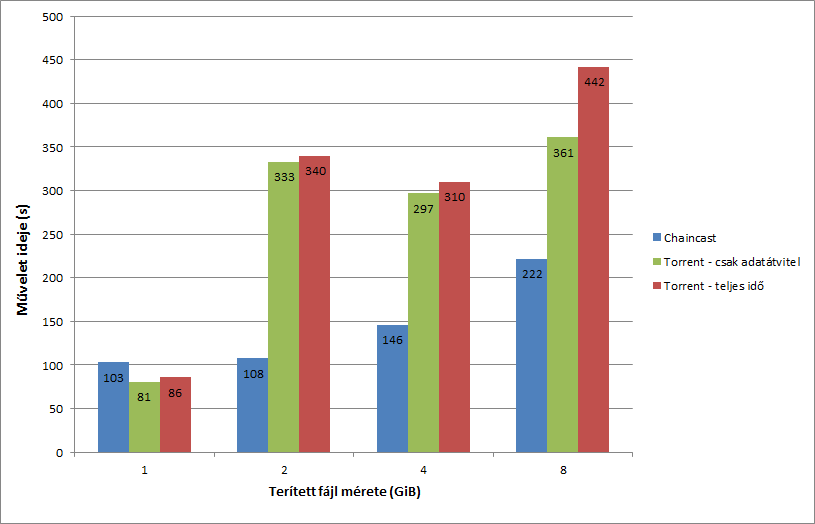
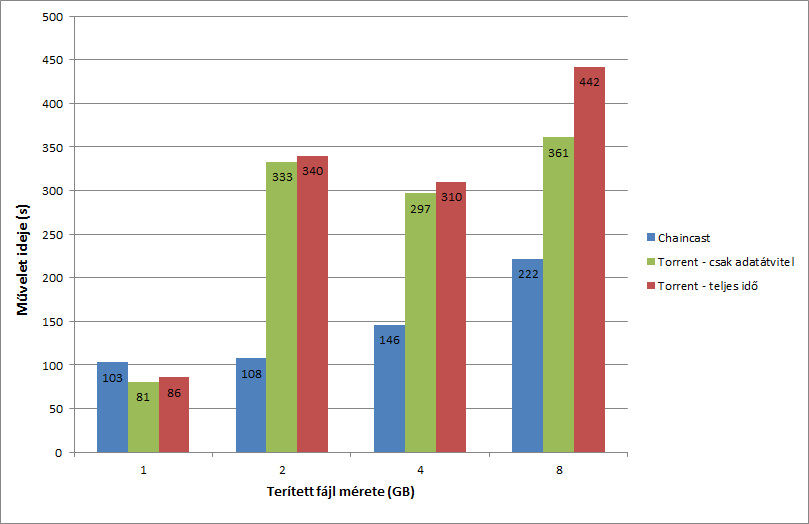
thesis 5.2 done

diff --git a/hu.bme.mit.vmdistribution.thesis/src/content/validation.tex b/hu.bme.mit.vmdistribution.thesis/src/content/validation.tex
@@ -22,19 +22,19 @@
 A programom teljesítményének elemzéséhez a következő méréseket végeztem el:
 
 \begin{itemize}
-  \item 1,2,4 és 8 GiB méretű fájlok terítése 10 ill. 25 gépre
-  \item 4 GiB méretű fájl terítése 25 gépre háromször, különbőző seed választásával
-  \item Hibatűrési tesztek a terítés elején hiányző, ill. aközben kieső gépekkel.
+  \item 1,2,4 és 8 GB méretű fájlok terítése 10 ill. 25 gépre
+  \item 4 GB méretű fájl terítése 25 gépre háromszor, különböző seed választásával
+  \item Hibatűrési tesztek a terítés elején hiányzó, ill. aközben kieső gépekkel.
 \end{itemize}
 
-Továbbá, hogy legyen összehasonlítási alap  az eredeti Chaincast alapú terítést is lefuttattam 25 gépre 1,2,4 és 8 GiB méretű fájlokkal.
+Továbbá, hogy legyen összehasonlítási alap  az eredeti Chaincast alapú terítést is lefuttattam 25 gépre 1,2,4 és 8 GB méretű fájlokkal.
 A mérési eredmények az alkalmazásom futásakor keletkező logfájlból származnak, Chaincast esetében pedig a Jenkins webes felületén a terítéshez tartozó build ``build output'' részből.
 
 %
 \subsection{Chaincast és Torrent alapú terítés idejének összehasonlítása}
 %
 
-Nem a gyorsabb fájlterítés megvalósítása volt a programom egyik célja, de attól még érdemes lehet összehasonlítanunk a két módszer sebességét, hiszen mindegy mennyit nyerünk a robusztusságon , ha használhatatlanul lassabb lesz az alkalmazás a mostaninál. Az~\ref{fig:chaincasttorrrentcomparison}-es~ábrán láthatjuk a különbőző méretű fájlok terítésének az idejét. Előtte visztont érdemes részletesebben megnézni, hogy ez az idő konkrétan mit (nem) tartalmaz:
+Nem a gyorsabb fájlterítés megvalósítása volt a programom egyik célja, de attól még érdemes lehet összehasonlítanunk a két módszer sebességét, hiszen mindegy mennyit nyerünk a robusztusságon , ha használhatatlanul lassabb lesz az alkalmazás a mostaninál. Az~\ref{fig:chaincasttorrrentcomparison}-es~ábrán láthatjuk a különböző méretű fájlok terítésének az idejét. Előtte viszont érdemes részletesebben megnézni, hogy ez az idő konkrétan mit (nem) tartalmaz:
 
 \begin{itemize}
   \item Egyik megoldásnál sem tartalmazza a terítés ideje a terítendő fájlok létrehozását, és a központi gépre másolását (ami egyik esetben egy hálózati meghajtó, másik esetben a torrent-es terítés seed-je)
@@ -50,18 +50,13 @@ Az előbbi állítások a későbbi mérésekre is igazak lesznek.
 \label{fig:chaincasttorrrentcomparison}
 \end{figure}
 
-
-Ide írom, hogy milyen következtetést kellene levonni az ábráról.
-meglepó, hogy 2 g milyen lasssú, kis fájlnál nem nagyon van kül
-nagyobb fájloknál kb 2x lassabb terítés , ez elfogadható, főleg hogy azt tapasztalam, hogy átlagosan 2 prbóálkozás kell egy sikeres chaincasthoz, ami ha a végém szakadna meg akkor hasonló időt vesz igénybe
-esetleg még a hashelés által okozott overhead a fájl méretével egyenesen arányosan nő
-
+Az eredményekből látszik, hogy sebesség terén elfogadható, amit kaptunk: nagyobb fájloknál körülbelül kétszer lassabb a terítés a Chaincast-hoz képest, és az a tapasztalat, hogy hogy átlagosan 2 próbálkozás kell egy sikeres Chaincast-os terítéshez, ami ha a vége felé szakadna meg a sikertelen próba során, akkor összességében hasonló időt venne igénybe. Kis fájloknál sokkal kevésbé jelentős a két módszer sebessége közti különbség, viszont az nem derült ki, hogy milyen anomália lépett fel a 2 GB-os fájl terítése során, hiszen az tovább tartott, mint a 4 GB-osé. Az is megjegyzendő, hogy a seed gépen a feltöltés indítása előtti hash-ellenőrzés okozta időveszteség (lásd a Torrent alapú terítéshez kapcsolódó oszloppárok közti különbség) nem lineárisan nő a feltöltendő fájl méretéhez képest, ezért nagyon javasolt lenne a torrentklienset rákényszeríteni ennek az ellenőrzésnek a kihagyására.
 
 %
-\subsection{Skálázódás - Torrentes terítés 10 és 25 gépere}
+\subsection{Skálázódás - Torrent alapú terítés 10 és 25 gépere}
 %
 
-A Torrent-től, mint P2P alapú fájlmegosztó protokolltól azt várjuk, hogy letöltők számával minimum nem fordítottan arányos a terítés idje, vagyis több résztvevő esetén sem tart több ideig a fájlátvitel. Most 10 és 25 gépre történő térítés esetén hasonlítjuk össze teljesítménymutatókat a övetkező táblázat segítségével:
+A Torrent-től, mint P2P alapú fájlmegosztó protokolltól azt várjuk, hogy letöltők számával minimum nem fordítottan arányos a terítés ideje, vagyis több résztvevő esetén sem tart több ideig a fájlátvitel. Most 10 és 25 gépre történő térítés esetén hasonlítjuk össze teljesítménymutatókat a következő táblázat segítségével:
 
 \begin{center}
 	\begin{tabular}{ |c|>{\centering\arraybackslash}m{2.5cm}|>{\centering\arraybackslash}m{2.5cm}|>{\centering\arraybackslash}m{2.5cm}|>{\centering\arraybackslash}m{2.5cm}| }
@@ -69,25 +64,26 @@ A Torrent-től, mint P2P alapú fájlmegosztó protokolltól azt várjuk, hogy l
 		\multirow{2}{*}{Fájlméret}&\multicolumn{2}{|c|}{Terítés - teljes idő}&\multicolumn{2}{|c|}{Terítés - csak az adatátvitel} \\
 		& 10 gépre & 25 gépre & 10 gépre & 25 gépre \\
 		\hline
-		1 GiB & 85 s & 86 s & 80 s & 81 s \\
+		1 GB & 85 s & 86 s & 80 s & 81 s \\
 		\hline
-		2 GiB & 178 s & 340 s & 167 s & 333 s \\
+		2 GB & 178 s & 340 s & 167 s & 333 s \\
 		\hline
-		4 GiB & 293 s & 310 s & 270 s & 297 s \\
+		4 GB & 293 s & 310 s & 270 s & 297 s \\
 		\hline
-		8 GiB & 563 s & 442 s & 516 s & 361 s \\
+		8 GB & 563 s & 442 s & 516 s & 361 s \\
 		\hline
 	\end{tabular}
 \end{center}
 
-[a szegélyeket hogyan lehetne szépre megcsinálni?]\\
+[a szegélyeket hogyan lehetne szépre megcsinálni?]\\%TODO
 
-Ennek az elemzése\ldots
+Számunkra kedvező eredményt kaptunk, hiszen nagyobb fájlok terítésénél nemhogy lassabb lett 15 célgép hozzáadásával a terítés, hanem érezhetően gyorsabb. A Torrent protokoll működését ismerve lassulással nem is kellett volna számolnunk, hiszen ideális esetben a letöltés idejét kizárólag a seed feltöltési sebessége határozza meg. [ezt bővebben kifejteni a háttérismeretek Torrentes részében, vagy a tervezésnél és innen visszahivatkozni talán.]%TODO
+
 %
 \subsection{Terítés ideje különbőző seed-ek választása esetén}
 %
 
-Érdemes lehet megnézni, hogy különbőző seed gépek választása hogyan befolyásolja a terítés idejét, ezért lefuttattam a 4 GiB-es fájl terítését 25 gépre háromszor, különbőző seed-eket választva. Az eredményt az~\ref{fig:differentseedscomparison}-es~ábra szemlélteti. 
+Érdemes lehet megnézni, hogy más-más seed gép választása hogyan befolyásolja a terítés idejét, ezért lefuttattam a 4 GB-os fájl terítését 25 gépre háromszor, különböző seed-et választva. Az eredményt az~\ref{fig:differentseedscomparison}-es~ábra szemlélteti. 
 
 \begin{figure}[ht]
 \centering
@@ -96,15 +92,38 @@ Ennek az elemzése\ldots
 \label{fig:differentseedscomparison}
 \end{figure}
 
-Nagonyrövid tanulság levonása.
+Látható, hogy különösebben nincs jelentősége, hogy melyik gépet választjuk seed-nek, persze ha egy nem ennyire homogén gépparkkal felszerelt laborban végeztük volna a tesztelést, akkor feltétlen a leggyorsabb gépet kellett volna e feladatra választanunk.
 
 %
-\subsection{P2P alapú fájlterítés - hibatűrése}
+\subsection{P2P alapú fájlterítés - hibatűrés}
 %
 
+A hibatűrési tesztet két részben végeztem el, az első részben azt néztem meg, hogy az én megoldásom hogyan reagál, ha a terítés indításakor van nem elérhető célgép. Ez Chaincast esetében automatikus bukást okoz, mivel ott küldés előtt ellenőrződik a teljes lánc létrejötte, és hiányzó gép esetében el sem kezdődik a fájlátvitel (pedig elvileg a lánc utolsó n db. gépének hiányával toleráns lehetne).\\
+Az első teszthez 10 gépes terítést kíséreltem meg, úgy hogy a ``labpc03'' nevezetű kikapcsolt állapotban volt, a futást kövessük nyomon a program kimenetében:\\\\
+Minden rendben történik egészen addig a lépésig, amíg a terítendő fájlhoz tartozó torrentfájlt nem próbáljuk labpc03-ra másolni:\\\\
+\code{2015-12-05 10:37:57 INFO hu.bme.mit.vmdistribution.app.vmutil.TorrentUtil copyTorrentFile [Copying torrent file test\_1g.torrent to labpc03.]}\\
+\code{2015-12-05 10:38:01 SEVERE hu.bme.mit.vmdistribution.app.ssh.SSHUtil remoteExec ssh: connect to host 10.40.2.31 port 22: No route to host}\\\\
+Azt a nem meglepő eredmény kaptuk, hogy nem sikerült a másolás, de ettől független a többi gépre igen, például a labpc08-ra(akinek az IP címe 10.40.2.140):\\\\
+\code{2015-12-05 10:37:57 INFO hu.bme.mit.vmdistribution.app.ssh.SSHUtil remoteExec Copied test\_1g.torrent to 10.40.2.140:\textasciitilde/Torrents}\\\\
+A torrent fájlok sikeres felmásolásával és a torrent kliensek elindításával elkezdődnek a letöltések, amelyeknek állapotáról 10 másodpercenként kapunk információkat. Ehhez hasonló üzeneteket fogunk látni:\\\\
+\code{2015-12-05 10:43:51 INFO hu.bme.mit.vmdistribution.app.distrstatus.DistributionStatusUpdater run 	labpc08:}\\
+\code{2015-12-05 10:43:51 INFO hu.bme.mit.vmdistribution.app.distrstatus.DistributionStatusUpdater run 		[ test\_1g: Completed: 13\%, Downloaded: 141.03/1024.0 MB, Speed: 2.35 MB/s.}\\\\
+Persze csak a hiányzó gép okozta hibaüzenetek mellett:\\\\
+\code{2015-12-05 10:43:54 SEVERE hu.bme.mit.vmdistribution.app.distrstatus.RTorrentXmlRpcClient updateTransferStatus ERROR executing XMLRPC call.
+org.apache.xmlrpc.XmlRpcException: Failed to read server's response: No route to host}\\\\
+A bekapcsolva hagyott gépekre végül eljut a terítendő fájl és a program futását manuálisan megszakítjuk:\\\\
+\code{2015-12-05 10:45:59 INFO hu.bme.mit.vmdistribution.app.UseModel distributionProgressLoop Quit due to user command}\\
+\code{2015-12-05 10:45:59 WARNING hu.bme.mit.vmdistribution.app.UseModel distributionProgressLoop [There were unfinished transfers:]}\\
+\code{2015-12-05 10:45:59 WARNING hu.bme.mit.vmdistribution.app.UseModel distributionProgressLoop test\_1g->labpc03 }\\\\
+A második teszt folyamán a fájlátvitel közben tettem gépeket elérhetetlenné, ennél a mérésnél a ``labpc06'' és ``labpc08'' nevű gépeken adatátvitel közben bezártam a torrentklienseket, illetve a ``labpc10''-nek szűntettem meg a hálózati csatlakozását. Miután a többi gépre sikeresen eljutott a terítendő fájl a három kieső gépet ``helyreállítottam'', ezek után behozták a lemaradást és befejezték a letöltést, így végül sikerrel zárult folyamat:\\\\
+\code{2015-12-05 10:56:09 INFO hu.bme.mit.vmdistribution.app.distrstatus.DistributionStatusUpdater run [All transfers are finished, distribution is complete, press ENTER to continue.]}
+
 %
-\subsection{P2P alapú fájlterítés - szűk keresztmetszetek keresése}
+\subsection{P2P alapú fájlterítés - szűk keresztmetszetek}
 %
+
+A többi mérés elvégzése közben feltűnt, hogy sokszor ugyanazok a gépek fejezték be utoljára a letöltést, úgyhogy összegyűjtöttem a~\ref{fig:computerdownloadspeeds}-es ábrán látható diagramokon, hogy adott gép hányszor szerepelt a terítések végén a 3 leglassabb, illetve leggyorsabb gép között:
+
 
 \begin{figure}[ht]
 \centering
@@ -113,7 +132,11 @@ Nagonyrövid tanulság levonása.
 \label{fig:computerdownloadspeeds}
 \end{figure}
 
+Mindkét esetben azt kellene látnunk, hogy a gépek alacsony gyakorisággal és véletlenül szerepelnek a toplistáinkon, viszont a leglassabb gépek között 23 és 9 sorszámúak kirívóan nagy gyakoriságot értek el, feltehetőleg a gépek hálózati kapcsolatával, vagy magukkal a gépekkel kapcsolatban vannak kijavítandó problémák, őket ezek megoldásáig nem érdemes seed-nek választani.
+
 %
-\subsection{P2P alapú fájlterítés - letöltési sebességek}
+%\subsection{P2P alapú fájlterítés - letöltési sebességek}
 %
+%ha nagyon kell még oldalszám miatt extra, akkor jöhet, de amúgy elég szegényes ez a mérés 
+%TODO
 
